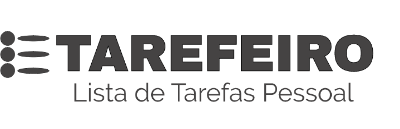
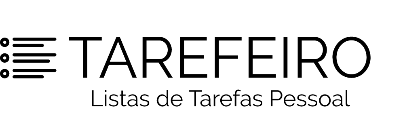
Texture and header design changes

Changed region(s): [[0.0, 0.24, 0.96, 0.864]]

diff --git a/src/css/styles.css b/src/css/styles.css
@@ -40,7 +40,11 @@ ul {
 .headerBackground {
   margin-bottom: 40px;
   height: 150px;
-  background-color: #574437;
+  background-color: #383428;
+  -webkit-box-shadow: 10px 10px 40px -24px rgba(0, 0, 0, 0.75);
+  -moz-box-shadow: 10px 10px 40px -24px rgba(0, 0, 0, 0.75);
+  box-shadow: 10px 10px 40px -24px rgba(0, 0, 0, 0.75);
+  border-bottom: 1px solid grey;
 }
 
 .headerContainer {
@@ -56,7 +60,7 @@ ul {
 }
 
 .headerContainer p {
-  color: #f9f4c2;
+  color: #ef7734;
   font-size: 25px;
 }
 
@@ -183,6 +187,10 @@ ul {
 
 .subTask {
   font-size: 16px;
+}
+
+.listBg {
+  background-image: url("../css/notebook-dark.png");
 }
 
 /* Create List */
@@ -371,7 +379,8 @@ a {
 
 @media only screen and (min-width: 768px) {
   .headerBackground,
-  .headerContainer {
+  .headerContainer,
+  .headerBackground::before {
     height: 100px;
   }
 

diff --git a/src/components/Lists/TodoList.js b/src/components/Lists/TodoList.js
@@ -17,7 +17,7 @@ const TodoList = ({ todos, removeTodo, renameTodo, addTask, removeTask }) => {
   const [createList, setCreateList] = useState(false);
 
   return (
-    <div>
+    <div className="listBg">
       <Header />
       <Container className="containerMaxWidth">
         <Collapse in={createList}>
